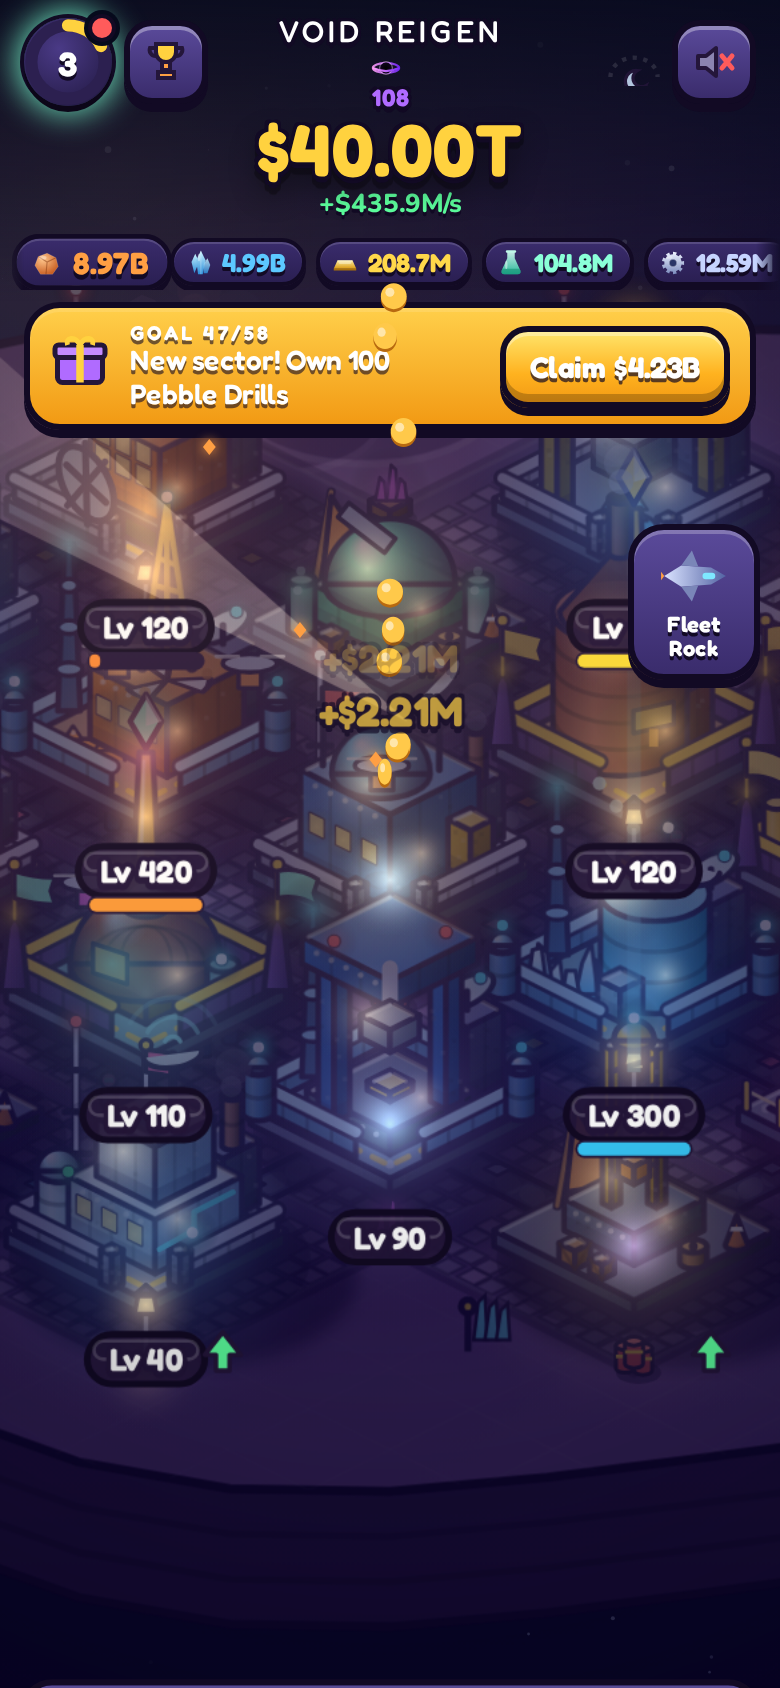
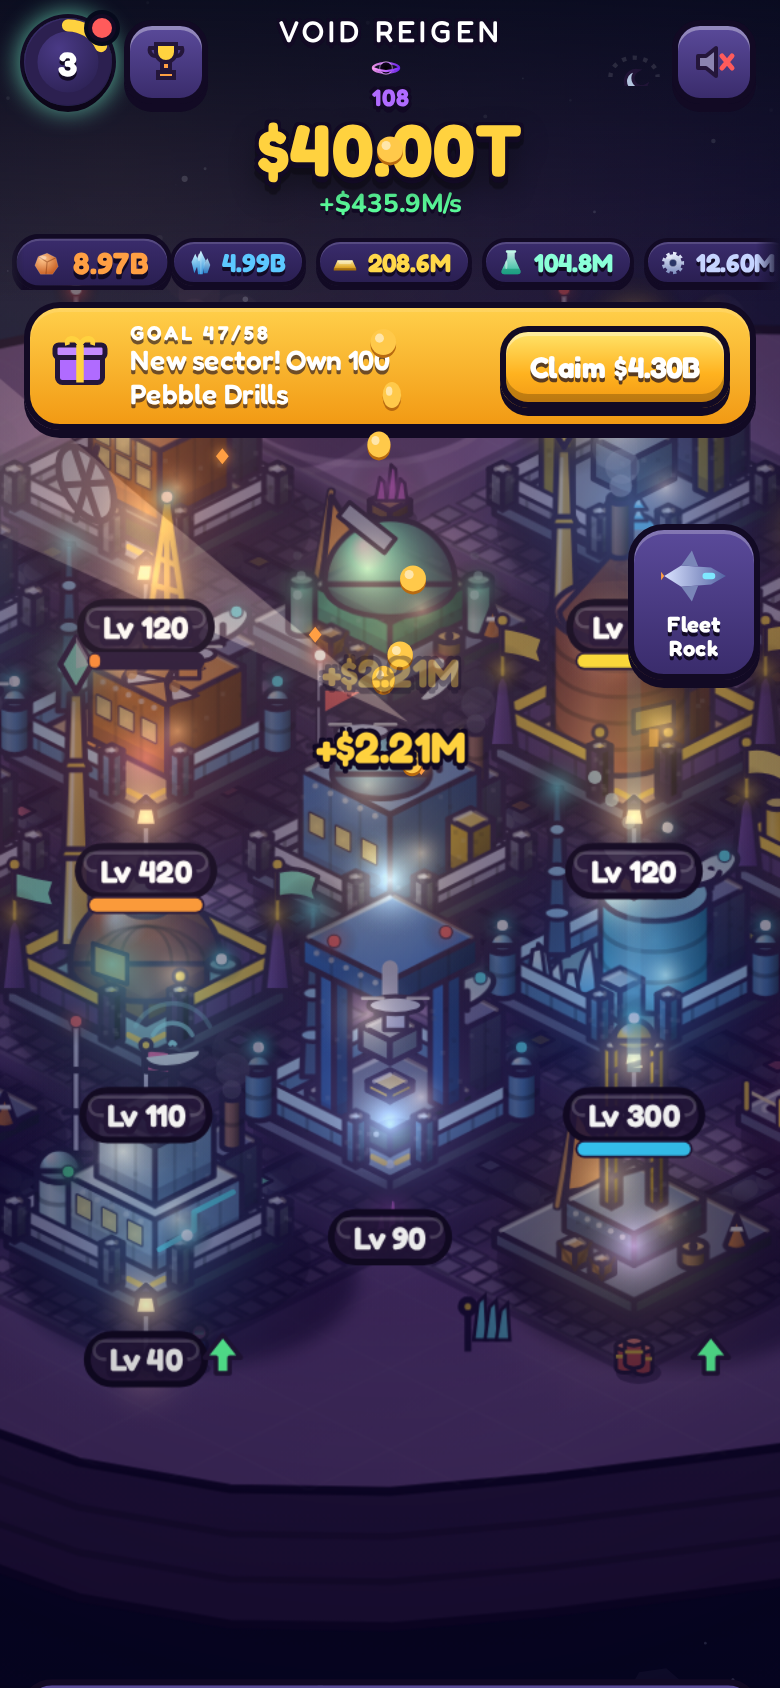
Night readability: lighter night overlay, soft spotlight on the goal target

diff --git a/src/base/view.ts b/src/base/view.ts
@@ -204,8 +204,9 @@ export class BaseView {
     if (this.warpT >= 0) { this.warpT += dt; const [gx, gy] = iso(6, -3); const f = Math.min(1, this.warpT / 2.2); glow(c, gx, gy - 50, 120 + f * 900, '#b06bff', .4 + f * .6); c.save(); c.translate(gx, gy - 50); c.rotate(this.warpT * 4 * f); for (let k = 0; k < 6; k++) { c.rotate(1.047); c.beginPath(); c.ellipse(0, 0, 60 + f * 500, 20 + f * 160, 0, 0, Math.PI); c.strokeStyle = `hsla(${270 + k * 15},100%,75%,${.6 * f})`; c.lineWidth = 6 + f * 10; c.stroke(); } c.restore(); this.shake = Math.max(this.shake, f * .2); if (this.warpT > 2.2 && this.warpCb) { const cb = this.warpCb; this.warpCb = null; cb(); } if (this.warpT > 3.2) { this.warpT = -1; this.sprites.clear(); } }
     // labels on top
     if (this.night > .01) {
-      c.save(); c.setTransform(1, 0, 0, 1, 0, 0); c.fillStyle = `rgba(10,4,48,${.7 * this.night})`; c.fillRect(0, 0, this.cv.width, this.cv.height); c.restore();
+      c.save(); c.setTransform(1, 0, 0, 1, 0, 0); c.fillStyle = `rgba(10,4,48,${.52 * this.night})`; c.fillRect(0, 0, this.cv.width, this.cv.height); c.restore();
       c.globalCompositeOperation = 'lighter';
+      { const g0 = this.guide ? slotByKey(this.guide) : null; if (g0 && (g0.rock || 0) === this.rock) { const [x, y] = iso(g0.gx, g0.gy); glow(c, x, y - 30, 110, '#fff4d0', this.night * .32); } } // keep the goal target readable after dark
       for (const d of dec) if (d[2] === 0) { const [x, y] = iso(d[0], d[1]), ice = this.rock === 1, col = ice ? '#dff2ff' : '#ffcf6a'; glow(c, x, y - (ice ? 32 : 28), ice ? 30 : 26, col, this.night * .55); glow(c, x + (ice ? 14 : 0), y + (ice ? 8 : 2), ice ? 38 : 26, col, this.night * (ice ? .3 : .2)); }
       for (const sl of order) { if (visible(sl) !== 'built') continue; const [x, y] = iso(sl.gx, sl.gy), on = activeOf(sl); glow(c, x, y - 4, 90, on ? accentOf(sl) : '#5a6aff', this.night * (on ? .3 : .12)); glow(c, x - 10, y - 30 - tier(sl) * 6, 26, '#ffe9a0', this.night * .38); glow(c, x + 14, y - 12, 14, '#ffd28a', this.night * .32); }
       { const [hx, hy] = iso(0, 0), ang = this.t * .35, len = 520; c.save(); c.translate(hx + 8, hy - 70); c.rotate(ang); const g = c.createLinearGradient(0, 0, len, 0); g.addColorStop(0, `rgba(255,240,190,${.28 * this.night})`); g.addColorStop(1, 'rgba(255,240,190,0)'); c.fillStyle = g; c.beginPath(); c.moveTo(0, 0); c.lineTo(len, -70); c.lineTo(len, 70); c.closePath(); c.fill(); c.restore(); }
